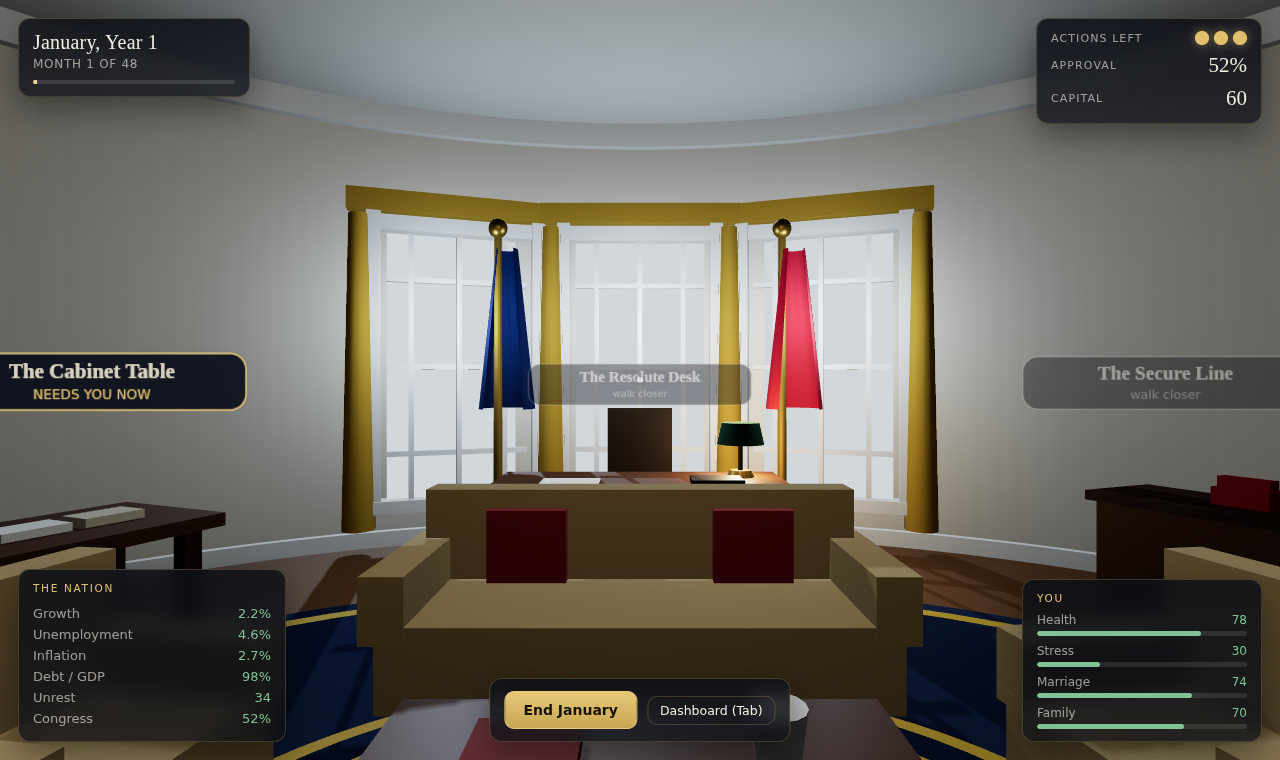
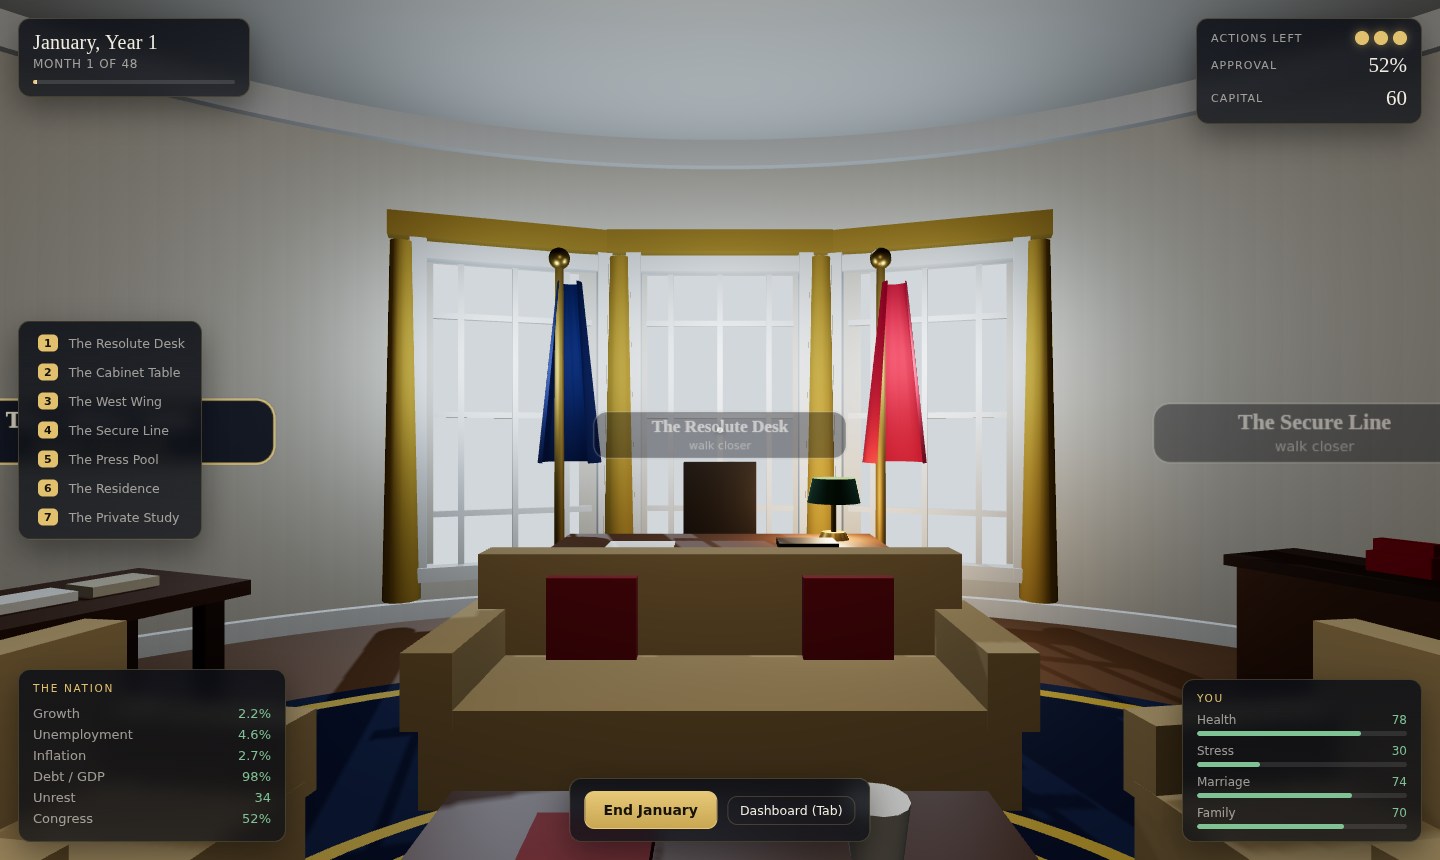
Fix a crisis softlock and tighten save fidelity
Two crises, the court vacancy and the border surge, offered no option that
cost zero political capital. A president who had spent everything could
neither answer them nor end the month, which stalled the term permanently.
Both now carry a free option that is genuinely bad rather than impossible,
and the engine guarantees structurally that the cheapest option in any crisis
is always available, so no future crisis can reintroduce the deadlock. The
balance harness now throws on an unresolvable crisis instead of spinning,
which is how this surfaced.

Also: a loaded save rebuilds the accumulated cost of standing still from the
month, rather than resetting agencies to first-year prices; headlines no
longer repeat within a few months of each other; and the interaction prompt
comes back when a panel closes.

Claude-Session: https://claude.ai/code/session_01VauUSKVxrK3PN6MLcCxbcs

diff --git a/src/game/engine.ts b/src/game/engine.ts
@@ -28,6 +28,7 @@ import type {
   BudgetKey,
   Choice,
   Crisis,
+  Effects,
   Ending,
   GameState,
   OfficeAction,
@@ -78,7 +79,7 @@ export class Engine extends Emitter<EngineEvents> {
     });
     this.state = state;
     this.rng = new Rng(state.seed ^ (state.month * 2654435761));
-    this.ctx = createSimContext(this.rng);
+    this.ctx = createSimContext(this.rng, state.month);
     this.emit("state", this.state);
   }
 
@@ -227,7 +228,7 @@ export class Engine extends Emitter<EngineEvents> {
     s.nation.taxRate = Math.min(45, Math.max(6, taxRate));
     s.flags[`budget${s.month}`] = true;
 
-    const effects: Record<string, number> = {};
+    const effects: Effects = {};
     // Raising taxes is unpopular; cutting them buys short-term goodwill.
     if (Math.abs(taxDelta) > 0.05) {
       effects["politics.approval"] = -taxDelta * 2.2;
@@ -238,7 +239,7 @@ export class Engine extends Emitter<EngineEvents> {
     // A budget is a fight; passing one always costs something.
     effects["politics.capital"] = -6;
     effects["personal.stress"] = 6;
-    applyEffects(s, effects as never);
+    applyEffects(s, effects);
 
     this.log("policy", `Signed the Year ${calendar(s.month).year} budget.`);
     this.outcome({
@@ -247,7 +248,7 @@ export class Engine extends Emitter<EngineEvents> {
         Math.abs(taxDelta) > 0.05
           ? `The appropriations are law, and the tax change is the lead paragraph in every story about them.`
           : `The appropriations are law. Nine agencies now know what they have to work with.`,
-      effects: describeEffects(effects as never),
+      effects: describeEffects(effects),
       tone: "neutral",
     });
     return true;
@@ -261,8 +262,9 @@ export class Engine extends Emitter<EngineEvents> {
     if (!crisis || !s.pendingCrises.includes(crisisId)) return false;
     const choice = crisis.choices.find((c) => c.id === choiceId);
     if (!choice) return false;
-    if ((choice.capitalCost ?? 0) > s.politics.capital) return false;
+    if (!this.affordable(crisis, choice)) return false;
 
+    // Capital clamps at zero, so an unaffordable last resort simply empties it.
     if (choice.capitalCost) applyEffects(s, { "politics.capital": -choice.capitalCost });
 
     const failed = choice.risk !== undefined && this.rng.chance(choice.risk);
@@ -296,9 +298,17 @@ export class Engine extends Emitter<EngineEvents> {
     return true;
   }
 
-  /** The crisis choices the player can actually afford right now. */
-  affordable(choice: Choice): boolean {
-    return (choice.capitalCost ?? 0) <= this.state.politics.capital;
+  /**
+   * Whether a crisis option can be taken. The cheapest option in a crisis is
+   * always available, whatever the treasury looks like: a president with no
+   * capital left still has to answer the phone, and a crisis nobody can
+   * resolve would stall the term for good.
+   */
+  affordable(crisis: Crisis, choice: Choice): boolean {
+    const cost = choice.capitalCost ?? 0;
+    if (cost <= this.state.politics.capital) return true;
+    const cheapest = Math.min(...crisis.choices.map((c) => c.capitalCost ?? 0));
+    return cost === cheapest;
   }
 
   // ------------------------------------------------------------- month flow

diff --git a/src/ui/panels.ts b/src/ui/panels.ts
@@ -447,10 +447,12 @@ export function budgetPanel(engine: Engine, host: PanelHost): HTMLElement {
   }, [due ? "Sign the budget (1 action)" : "Not due until the fiscal year turns"]);
 
   const foot = el("div", { class: "panel-foot" }, [
-    el("span", { class: "option-detail" }, [
-      due
-        ? "Leave it unsigned and the government runs on a stopgap, which costs you standing."
-        : `Next budget due in ${12 - ((s.month - 1) % 12)} months.`,
+    el("span", { class: due && s.ap < 1 ? "reason" : "option-detail" }, [
+      due && s.ap < 1
+        ? "No action points left. End the month and the government runs on a stopgap instead."
+        : due
+          ? "Leave it unsigned and the government runs on a stopgap, which costs you standing."
+          : `Next budget due in ${12 - ((s.month - 1) % 12)} months.`,
     ]),
     signButton,
   ]);
@@ -472,7 +474,7 @@ export function crisisPanel(engine: Engine, crisis: Crisis, host: PanelHost): HT
   const grid = el("div", { class: "option-grid" });
 
   for (const choice of crisis.choices) {
-    const affordable = engine.affordable(choice);
+    const affordable = engine.affordable(crisis, choice);
     grid.append(
       el(
         "button",
@@ -497,7 +499,13 @@ export function crisisPanel(engine: Engine, crisis: Crisis, host: PanelHost): HT
                 `Roughly a ${Math.round(choice.risk * 100)}% chance this goes wrong.`,
               ])
             : null,
-          !affordable ? el("div", { class: "reason" }, ["You cannot afford this."]) : null,
+          !affordable
+            ? el("div", { class: "reason" }, ["Not enough political capital for this one."])
+            : (choice.capitalCost ?? 0) > engine.state.politics.capital
+              ? el("div", { class: "risk-note" }, [
+                  "You do not have the capital for this. Taking it anyway spends everything you have.",
+                ])
+              : null,
         ],
       ),
     );

diff --git a/src/game/crises.ts b/src/game/crises.ts
@@ -423,6 +423,19 @@ export const CRISES: Crisis[] = [
         resultText: "Confirmed 78-22. Half your party calls it a wasted seat.",
       },
       {
+        id: "leave-vacant",
+        label: "Leave the seat empty",
+        detail: "Nominate nobody for now. An eight-member court deadlocks, and everyone waits.",
+        effects: {
+          "politics.party": -7,
+          "politics.media": -2,
+          "nation.unrest": 3,
+          "politics.capital": 4,
+        },
+        resultText:
+          "The seat stays open into next term. Four-four rulings pile up and nobody is happy, which at least is even-handed.",
+      },
+      {
         id: "deal",
         label: "Trade the seat",
         detail: "Let the other side have the nominee in exchange for the votes you need elsewhere.",
@@ -662,6 +675,20 @@ export const CRISES: Crisis[] = [
           "nation.standing": -3,
         },
         resultText: "Crossings fall by half in a month. The courts will be hearing about it for years.",
+      },
+      {
+        id: "absorb",
+        label: "Ride it out",
+        detail: "No emergency money, no deployment. Process what you can and let the story run.",
+        effects: {
+          "nation.unrest": 6,
+          "politics.approval": -4,
+          "politics.media": -3,
+          "nation.security": -2,
+          "politics.capital": 3,
+        },
+        resultText:
+          "The centres stay over capacity for two months. The footage keeps coming and you keep having no answer for it.",
       },
       {
         id: "regional",

diff --git a/src/tools/balance.ts b/src/tools/balance.ts
@@ -40,9 +40,12 @@ function run(strat: Strategy, seed: number) {
   while (s.phase === "playing") {
     // Resolve every crisis with a random affordable option.
     for (const crisis of [...engine.pendingCrises]) {
-      const options = crisis.choices.filter((c) => engine.affordable(c));
-      const choice = options.length ? rng.pick(options) : crisis.choices[0];
-      engine.resolveCrisis(crisis.id, choice.id);
+      const options = crisis.choices.filter((c) => engine.affordable(crisis, c));
+      if (!options.length) throw new Error(`No resolvable option for crisis ${crisis.id}`);
+      const choice = rng.pick(options);
+      if (!engine.resolveCrisis(crisis.id, choice.id)) {
+        throw new Error(`Could not resolve crisis ${crisis.id} with ${choice.id}`);
+      }
     }
     if (engine.budgetPending() && strat !== "idle") {
       engine.signBudget({ ...s.budget }, s.nation.taxRate);

diff --git a/src/game/sim.ts b/src/game/sim.ts
@@ -17,11 +17,18 @@ export interface SimContext {
   cyclePhase: number;
 }
 
-export function createSimContext(rng: Rng): SimContext {
-  return {
-    needs: { ...SECTOR_NEED },
-    cyclePhase: rng.range(0, Math.PI * 2),
-  };
+/**
+ * `month` rebuilds the accumulated cost of standing still, so a loaded save
+ * resumes with the same needs it had when it was written.
+ */
+export function createSimContext(rng: Rng, month = 1): SimContext {
+  const elapsed = Math.max(0, month - 1);
+  const creep = (1 + NEED_DRIFT) ** elapsed;
+  const needs = {} as Record<SectorKey, number>;
+  for (const key of Object.keys(SECTOR_NEED) as SectorKey[]) {
+    needs[key] = SECTOR_NEED[key] * creep;
+  }
+  return { needs, cyclePhase: rng.range(0, Math.PI * 2) };
 }
 
 export interface MonthReport {

diff --git a/src/game/news.ts b/src/game/news.ts
@@ -178,9 +178,10 @@ function fill(line: string, s: GameState): string {
 export function generateNews(s: GameState, rng: Rng): NewsItem[] {
   const matching = TEMPLATES.filter((t) => t.when(s));
   const chosen: NewsItem[] = [];
-  const used = new Set<string>();
-  const count = Math.min(2, matching.length);
-  for (let i = 0; i < count; i += 1) {
+  // Don't reprint a headline the reader saw in the last couple of months.
+  const used = new Set(s.news.slice(0, 4).map((n) => n.headline));
+  const wanted = Math.min(2, matching.length);
+  for (let attempt = 0; attempt < 8 && chosen.length < wanted; attempt += 1) {
     const t = rng.pick(matching);
     const line = fill(rng.pick(t.lines), s);
     if (used.has(line)) continue;

diff --git a/src/main.ts b/src/main.ts
@@ -51,6 +51,7 @@ class Game {
       if (this.drain()) return;
       if (!this.ended) {
         this.world.player.enabled = true;
+        this.hud.setPrompt(this.nearest);
         this.world.player.lock();
       }
     };

diff --git a/README.md b/README.md
@@ -106,10 +106,10 @@ where the numbers land. It is the fastest way to see whether a change to the
 model has broken the difficulty curve:
 
 ```
-idle          legacy 44.3  approval 46.3  debt 104.2  health 51  marriage 34.2  bills 0
-workaholic    legacy 50.5  approval 54.6  debt 107.8  health 44  marriage 33.8  bills 9
-balanced      legacy 62.2  approval 56.5  debt 106.5  health 94  marriage 87.7  bills 10.7
-family-first  legacy 53.8  approval 47.5  debt 103.8  health 94  marriage 93    bills 0
+idle          legacy 44.8  approval 47.7  debt 102.8  health 56  marriage 35.5  bills 0
+workaholic    legacy 51.0  approval 53.3  debt 107.5  health 46  marriage 38.8  bills 9.7
+balanced      legacy 62.3  approval 55.5  debt 106.0  health 94  marriage 88.2  bills 11
+family-first  legacy 53.0  approval 44.1  debt 103.0  health 96  marriage 92.7  bills 0
 ```
 
 Governing well beats governing hard, and neither beats doing both — which is the
